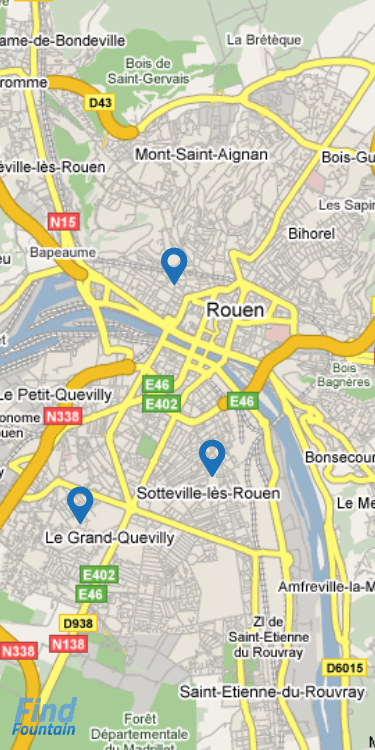
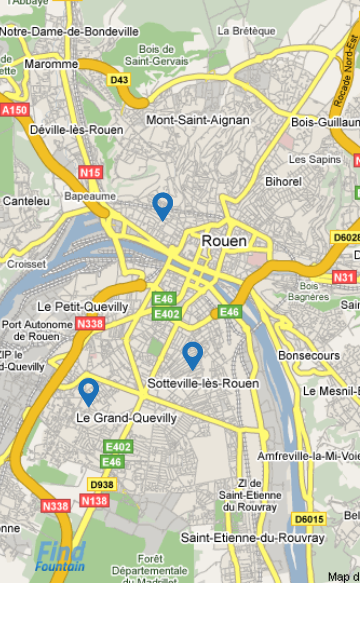
problème map résolu + ajout img footer

diff --git a/src/index.html b/src/index.html
@@ -4,13 +4,25 @@
     <meta charset="UTF-8">
     <meta name="viewport" content="width=device-width, initial-scale=1.0">
     <meta http-equiv="X-UA-Compatible" content="ie=edge">
-    <link rel="stylesheet" href="src/css/map.css">
+    <link rel="stylesheet" href="css/map.css">
     <title>Find Fountain</title>
 </head>
 <body>
     <div class="map-bg">
-        <img src="img/map.png" width="350px" height="625px">
+        <img id="map" src="img/map.png">
     </div>
+
+    <footer>
+        <div class="left">
+            <img src="img/compass.png">
+        </div>
+        <div class="mid">
+
+        </div>
+        <div class="right">
+
+        </div>
+    </footer>
 
     <script src="src/js/app.js"></script> 
 </body>

diff --git a/src/css/map.css b/src/css/map.css
@@ -4,7 +4,7 @@ body {
     border: 0;
 }
 
-img {
-    width: 50%;
-    height: 100%;
+#map {
+    width: 360px;
+    height: 625px;
 }
